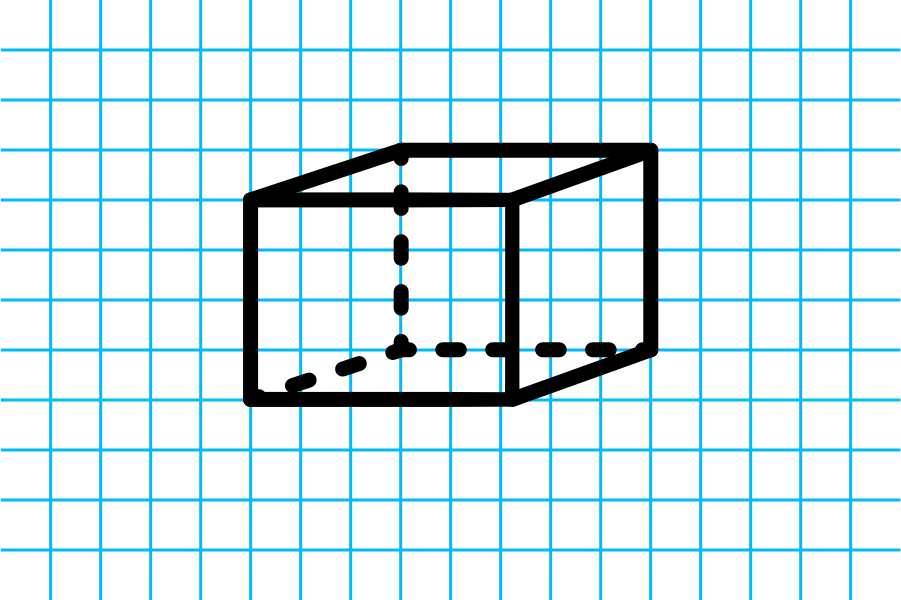
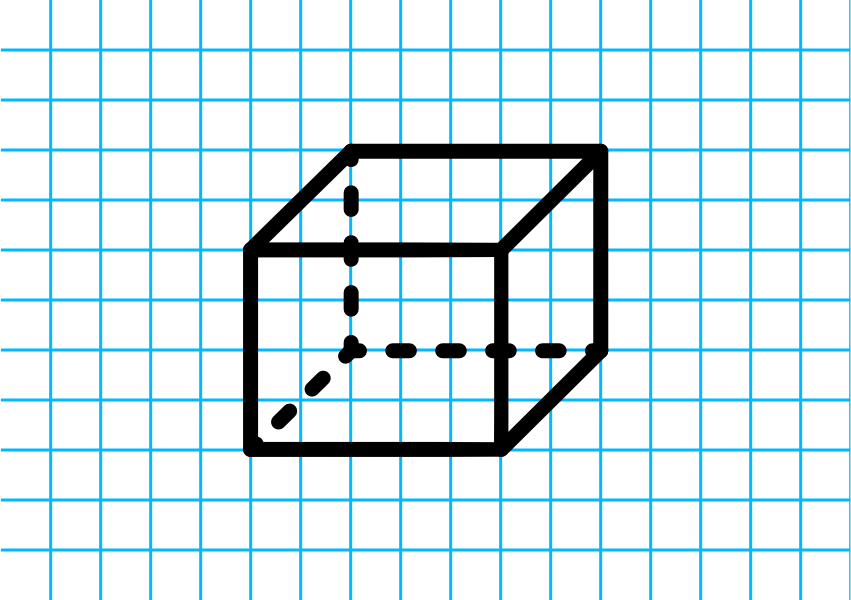
fix: change some text on the Zylinder page to make it better understandable and edit Schrägbilder pictures to  have a 45° angle

diff --git a/app/klasse78/koerper/zylinder/page.tsx b/app/klasse78/koerper/zylinder/page.tsx
@@ -37,11 +37,11 @@ export default function Zylinder() {
             <CheckableHeading title="Schrägbilder">
                 Aus der Orientierungsstufe kennst du bereits das <b>Schrägbild</b> eines Quaders. Das sollte ungefähr so aussehen wie in dem Bild.
                 <Image src="/Prismen/Quader.webp" width={901} height={600} alt="Schrägbild eines Quaders auf kariertem Papier." />
-                Verdeckte Kanten werden also mit einer gestrichelten Linie angedeutet, während sichtbare Kanten durchgezogen werden.
+                Verdeckte Kanten werden also mit einer gestrichelten Linie angedeutet, während sichtbare Kanten durchgezogen werden. Wegen der Perspektive werden die Linien, die nach hinten gehen, meist nur halb so lang gezeichnet, als sie in Realität eigentlich lang sind.
                 <Divider />
                 Versuchen wir uns mal an einem Schrägbild von einem Zylinder.
                 <List type="ordered">
-                    <ListItem>Zuerst zeichnen wir einen Kreis als Grundfläche. Dieser ist wegen der Perspektive etwas zusammengedrückt und nach hinten rechts verzerrt. Zwischen den äußersten Punkten links und rechts können wir den weiter hinten liegenden Teil gestrichelt zeichnen – das spart uns später Arbeit. Wenn du noch</ListItem>
+                    <ListItem>Zuerst zeichnen wir einen Kreis als Grundfläche. Dieser ist wegen der Perspektive etwas zusammengedrückt und nach hinten rechts verzerrt. Zwischen den äußersten Punkten links und rechts können wir den weiter hinten liegenden Teil gestrichelt zeichnen – das spart uns später Arbeit.</ListItem>
                     <ListItem>Dann ziehen wir die äußersten Kanten nach oben, bis wir die gewünschte Höhe erreichen.</ListItem>
                     <ListItem>Darauf setzen wir nun die Oberseite.</ListItem>
                 </List>
